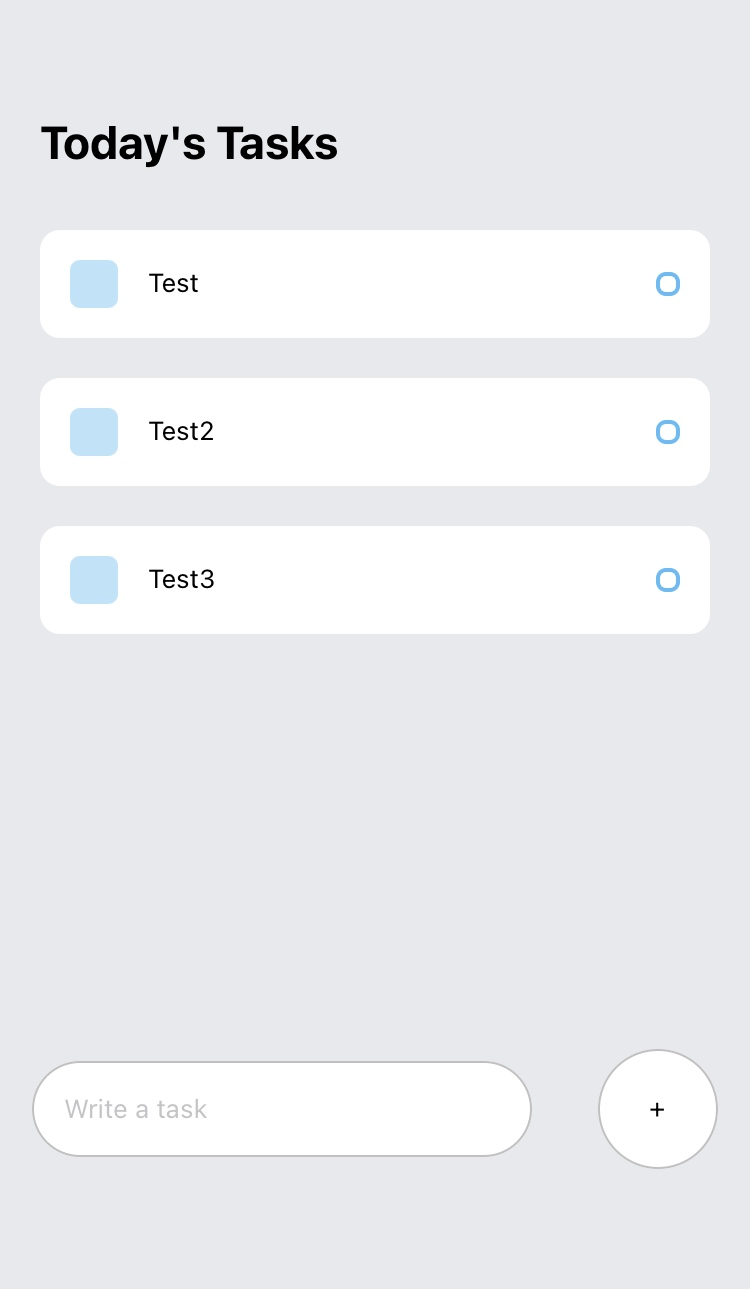
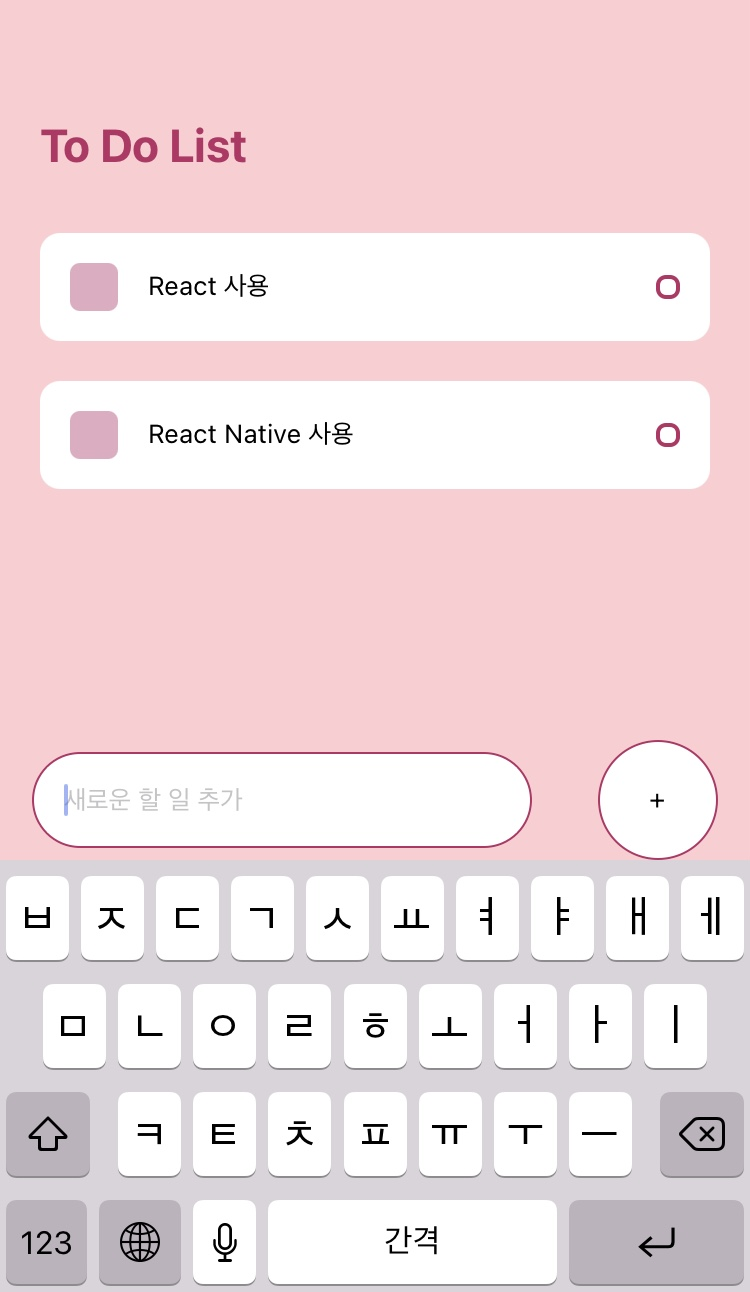
디자인수정

diff --git a/App.js b/App.js
@@ -23,7 +23,7 @@ export default function App() {
       
       {/* Today's Tasks */}
       <View style={styles.tasksWrapper}>
-        <Text style={styles.sectionTitle}>Today's Tasks</Text>
+        <Text style={styles.sectionTitle}>To Do List</Text>
 
         <View style={styles.item}>
           {/* This is where the tasks will go! 여기서 작업이 진행됩니다! */}
@@ -47,7 +47,7 @@ export default function App() {
         behavior={Platform.OS == "ios" ? "padding" : "height"}
         style={styles.writeTaskWrapper}
       >
-        <TextInput style={styles.input} placeholder={'Write a task'} value={task} onChangeText={text => setTask(text)} />
+        <TextInput style={styles.input} placeholder={'새로운 할 일 추가'} value={task} onChangeText={text => setTask(text)} />
 
         <TouchableOpacity onPress={() => handleAddTask()}>
           <View style={styles.addWrapper}>
@@ -63,7 +63,7 @@ export default function App() {
 const styles = StyleSheet.create({
   container: {
     flex: 1,
-    backgroundColor: '#e8eaed',
+    backgroundColor: '#ffcdd2',
   },
   tasksWrapper: {
     paddingTop: 80,
@@ -72,6 +72,7 @@ const styles = StyleSheet.create({
   sectionTitle: {
     fontSize: 24,
     fontWeight: 'bold',
+    color: '#ba2d65',
   },
   item: {
     marginTop: 30,
@@ -89,7 +90,7 @@ const styles = StyleSheet.create({
     paddingHorizontal: 15,
     backgroundColor: '#fff',
     borderRadius: 60,
-    borderColor: '#c0c0c0',
+    borderColor: '#ba2d65',
     borderWidth: 1,
     width: 250,
   },
@@ -100,7 +101,7 @@ const styles = StyleSheet.create({
     borderRadius: 60,
     justifyContent: 'center',
     alignItems: 'center',
-    borderColor: '#c0c0c0',
+    borderColor: '#ba2d65',
     borderWidth: 1,
   },
   addText: {},

diff --git a/components/Task.js b/components/Task.js
@@ -31,7 +31,7 @@ const styles = StyleSheet.create({
     square: {
         width: 24,
         height: 24,
-        backgroundColor: '#55bcf6',
+        backgroundColor: '#ba2d65',
         opacity: 0.4,
         borderRadius: 5,
         marginRight: 15,
@@ -42,7 +42,7 @@ const styles = StyleSheet.create({
     circular: {
         width: 12,
         height: 12,
-        borderColor: '#55bcf6',
+        borderColor: '#ba2d65',
         borderWidth: 2,
         borderRadius: 5,
     },

diff --git a/README.md b/README.md
@@ -8,10 +8,10 @@ TodoList App
 ---
 
 ## 메인화면
-<img src="https://user-images.githubusercontent.com/63582123/109641166-c1b25c00-7b94-11eb-9590-3c6fde6ee79e.jpeg"  width="347" height="599">
+<img src="https://user-images.githubusercontent.com/63582123/112856530-d7ab3200-90ea-11eb-8279-d0d232569b4a.jpeg"  width="347" height="599">
 
 ## + 버튼을 누르면 일정추가
-<img src="https://user-images.githubusercontent.com/63582123/109641175-c4ad4c80-7b94-11eb-8076-1a340f114f7f.jpeg"  width="347" height="599">
+<img src="https://user-images.githubusercontent.com/63582123/112856535-d974f580-90ea-11eb-8482-86e167ef5b45.jpeg"  width="347" height="599">
 
 ## 일정적힌 박스를 누르면 일정삭제
-<img src="https://user-images.githubusercontent.com/63582123/109641185-c6771000-7b94-11eb-865a-97609e35a290.jpeg"  width="347" height="599">
+<img src="https://user-images.githubusercontent.com/63582123/112856539-daa62280-90ea-11eb-9184-2259f8738f10.jpeg"  width="347" height="599">
